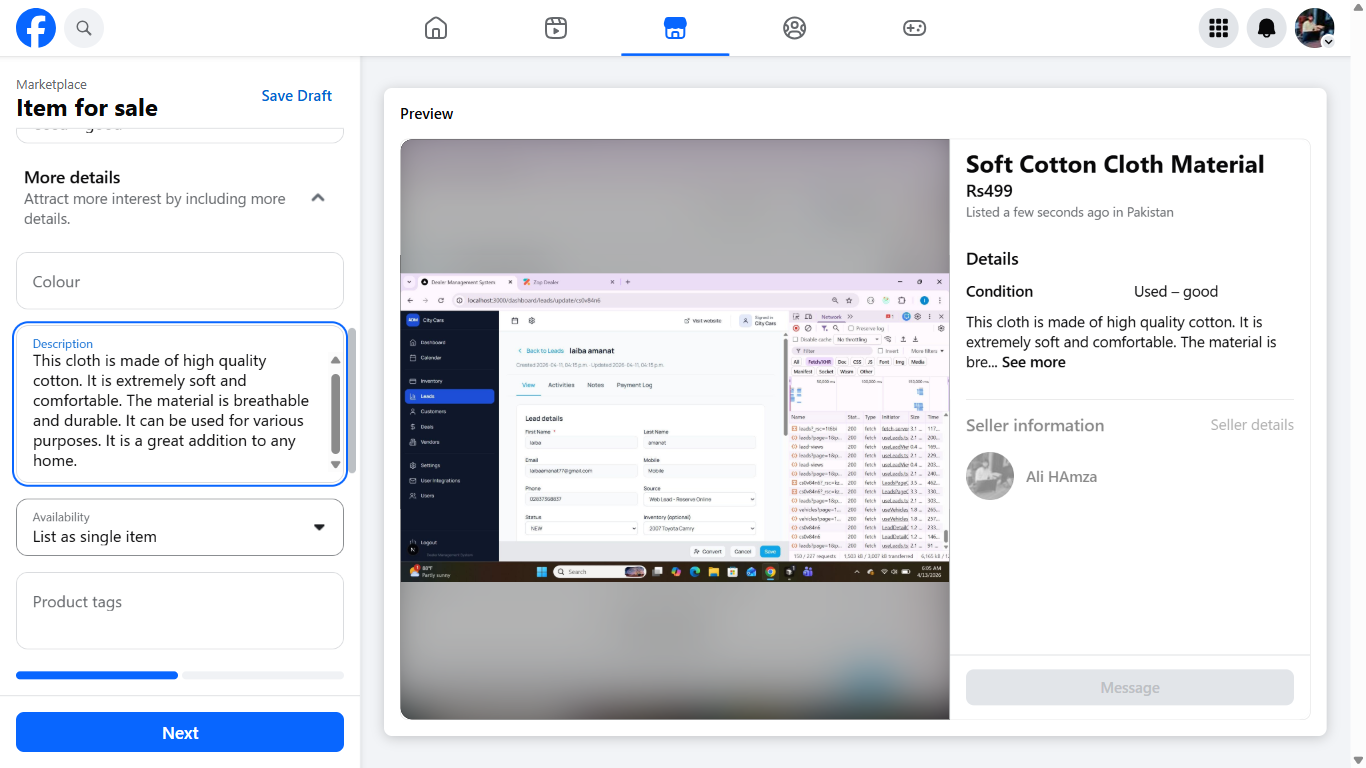
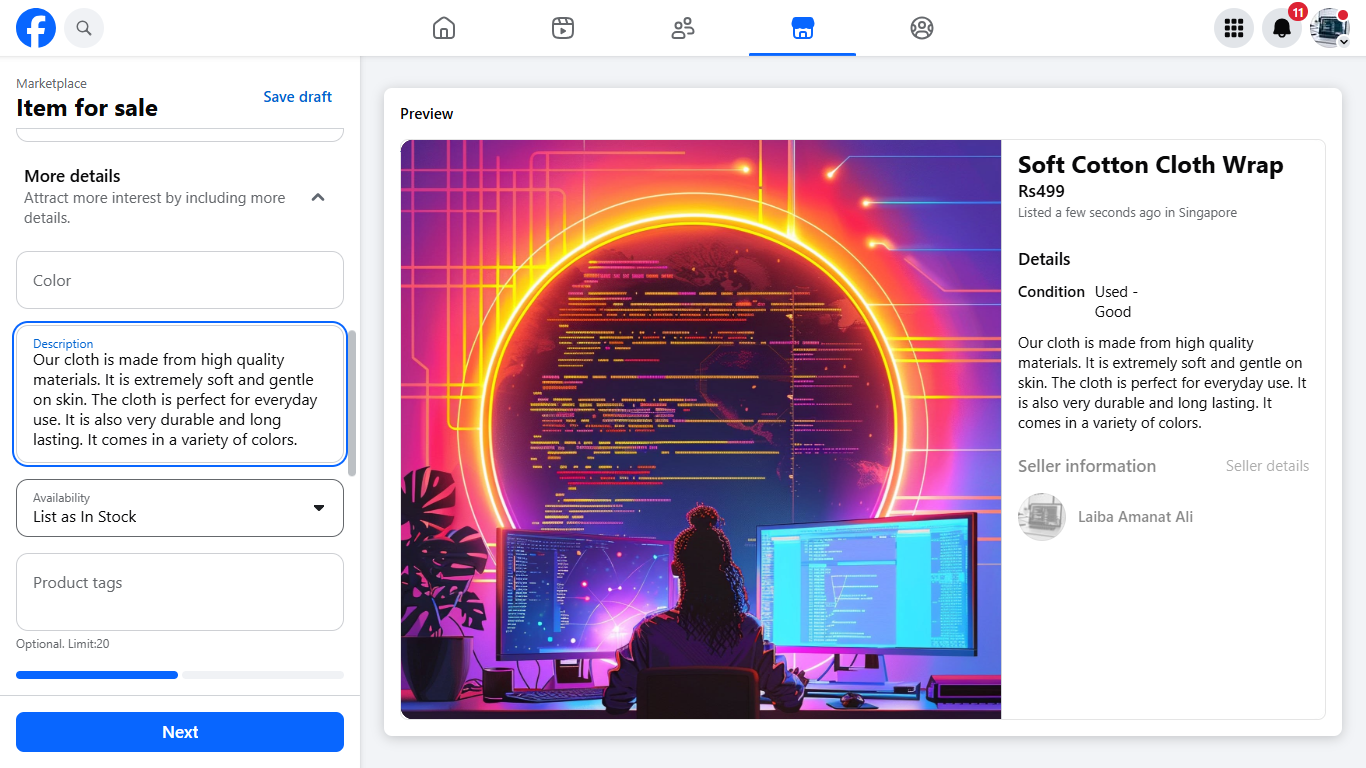
upadted

diff --git a/main.py b/main.py
@@ -68,10 +68,12 @@ app.add_middleware(
     allow_origins=[
         "http://localhost:5173",
         "http://127.0.0.1:5173",
+        "http://localhost:5174",
         "http://localhost:3000",
         "http://127.0.0.1:3000",
         "http://localhost:8000",
         "http://127.0.0.1:8000",
+         "https://vps.axorawebsolutions.com/"
     ],
     allow_origin_regex=r"https?://.*",
     allow_credentials=True,
@@ -92,3 +94,4 @@ app.include_router(websocket.router, prefix="/api", tags=["websocket"])
 @app.get("/health")
 async def health():
     return {"status": "ok"}
+    
